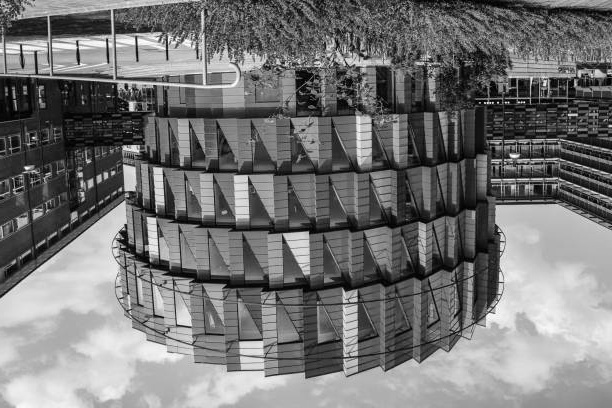
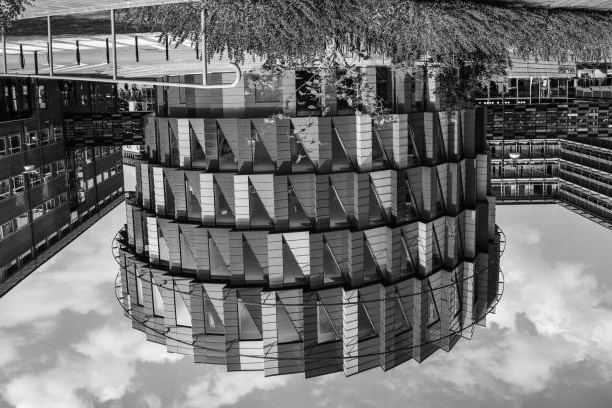
fix bug with image type

diff --git a/pipe-and-filter/src/filter3.cpp b/pipe-and-filter/src/filter3.cpp
@@ -1,21 +1,23 @@
 #include <opencv2/imgproc/imgproc.hpp>
 
 // FILTER 3: convert image to grey scale
-void filter3(cv::Mat img)
+cv::Mat filter3(cv::Mat img)
 {
     int width = img.cols;
     int height = img.rows;
+    cv::Mat result = cv::Mat(height, width, CV_8UC1);
     for (int i = 0; i < height; i++)
     {
         for (int j = 0; j < width; j++)
         {
+            // Formula: 0.299 ∙ Red + 0.587 ∙ Green + 0.114 ∙ Blue
             cv::Vec3b pixel = img.at<cv::Vec3b>(i, j);
             uchar R = pixel[2];
             uchar G = pixel[1];
             uchar B = pixel[0];
-            uchar avg = (R + G + B) / 3;
-            pixel[0] = pixel[1] = pixel[2] = avg;
-            img.at<cv::Vec3b>(i, j) = pixel;
+            uint8_t avg = (.299 * R) + (.587 * G) + (.114 * B);
+            result.at<uint8_t>(i, j) = avg;
         }
     }
+    return result;
 }

diff --git a/pipe-and-filter/src/pipeline.cpp b/pipe-and-filter/src/pipeline.cpp
@@ -31,7 +31,7 @@ int main(int32_t argc, char **argv)
             // FILTER 2: flip image along vertical axis
             filter2(img);
             // FILTER 3: convert image to grey scale
-            filter3(img);
+            img = filter3(img);
 
             // Save the resulting image
             cv::imwrite("../" + path, img);
